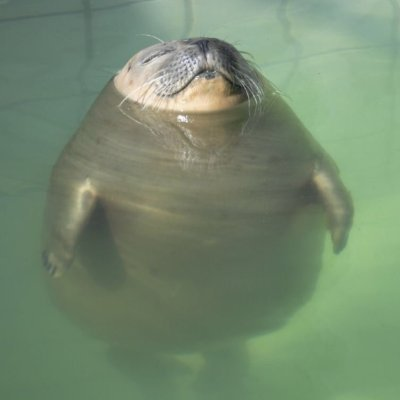
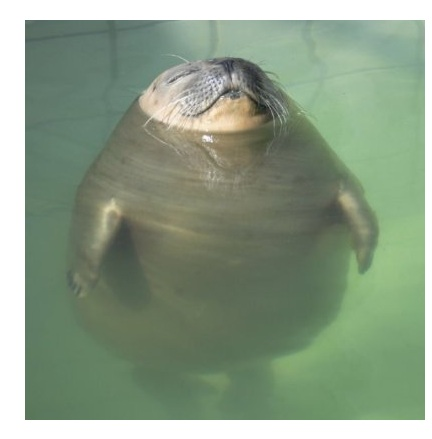
g

diff --git a/index.html b/index.html
@@ -10,21 +10,36 @@
             margin: 50px auto;
             max-width: 450px;
             text-align: center;
+            font-family: Arial, Helvetica, sans-serif;
+        }
+
+        .avatar-container {
+            position: relative;
+            display: inline-block;
+        }
+
+        .bubble {
+            position: absolute;
+            top: 12px;
+            left: 100%;
         }
     </style>
 </head>
 
 <body>
-    <img src="avatar.jpg" width="99" height="99">
-    <h1>hi</h1>
+    <div class="avatar-container">
+        <img src="avatar.jpg" width="150" height="150" alt="Avatar">
+        <img class="bubble" src="hi.jpg" width="70" height="70" alt="Hi">
+    </div>
 
-    <h3><a href="https://willn1337.github.io/zippy">zippy</a></h3>
+    <h4><a href="https://www.youtube.com/@CoalDev">coaldev</a></h4>
+    <h4><a href="https://willn1337.github.io/zippy">zippy</a></h4>
 
     <hr>
     <p>
-        <a href="https://github.com/willn1337">GitHub</a> -
-        <a href="https://www.youtube.com/@willtn">YouTube</a> -
-        <a href="https://discord.com/users/961433843238338640">Discord</a>
+        <a href="https://github.com/willn1337">github</a> -
+        <a href="https://www.youtube.com/@willtn">youtube</a> -
+        <a href="https://discord.com/users/961433843238338640">discord</a>
     </p>
 
 </body>
